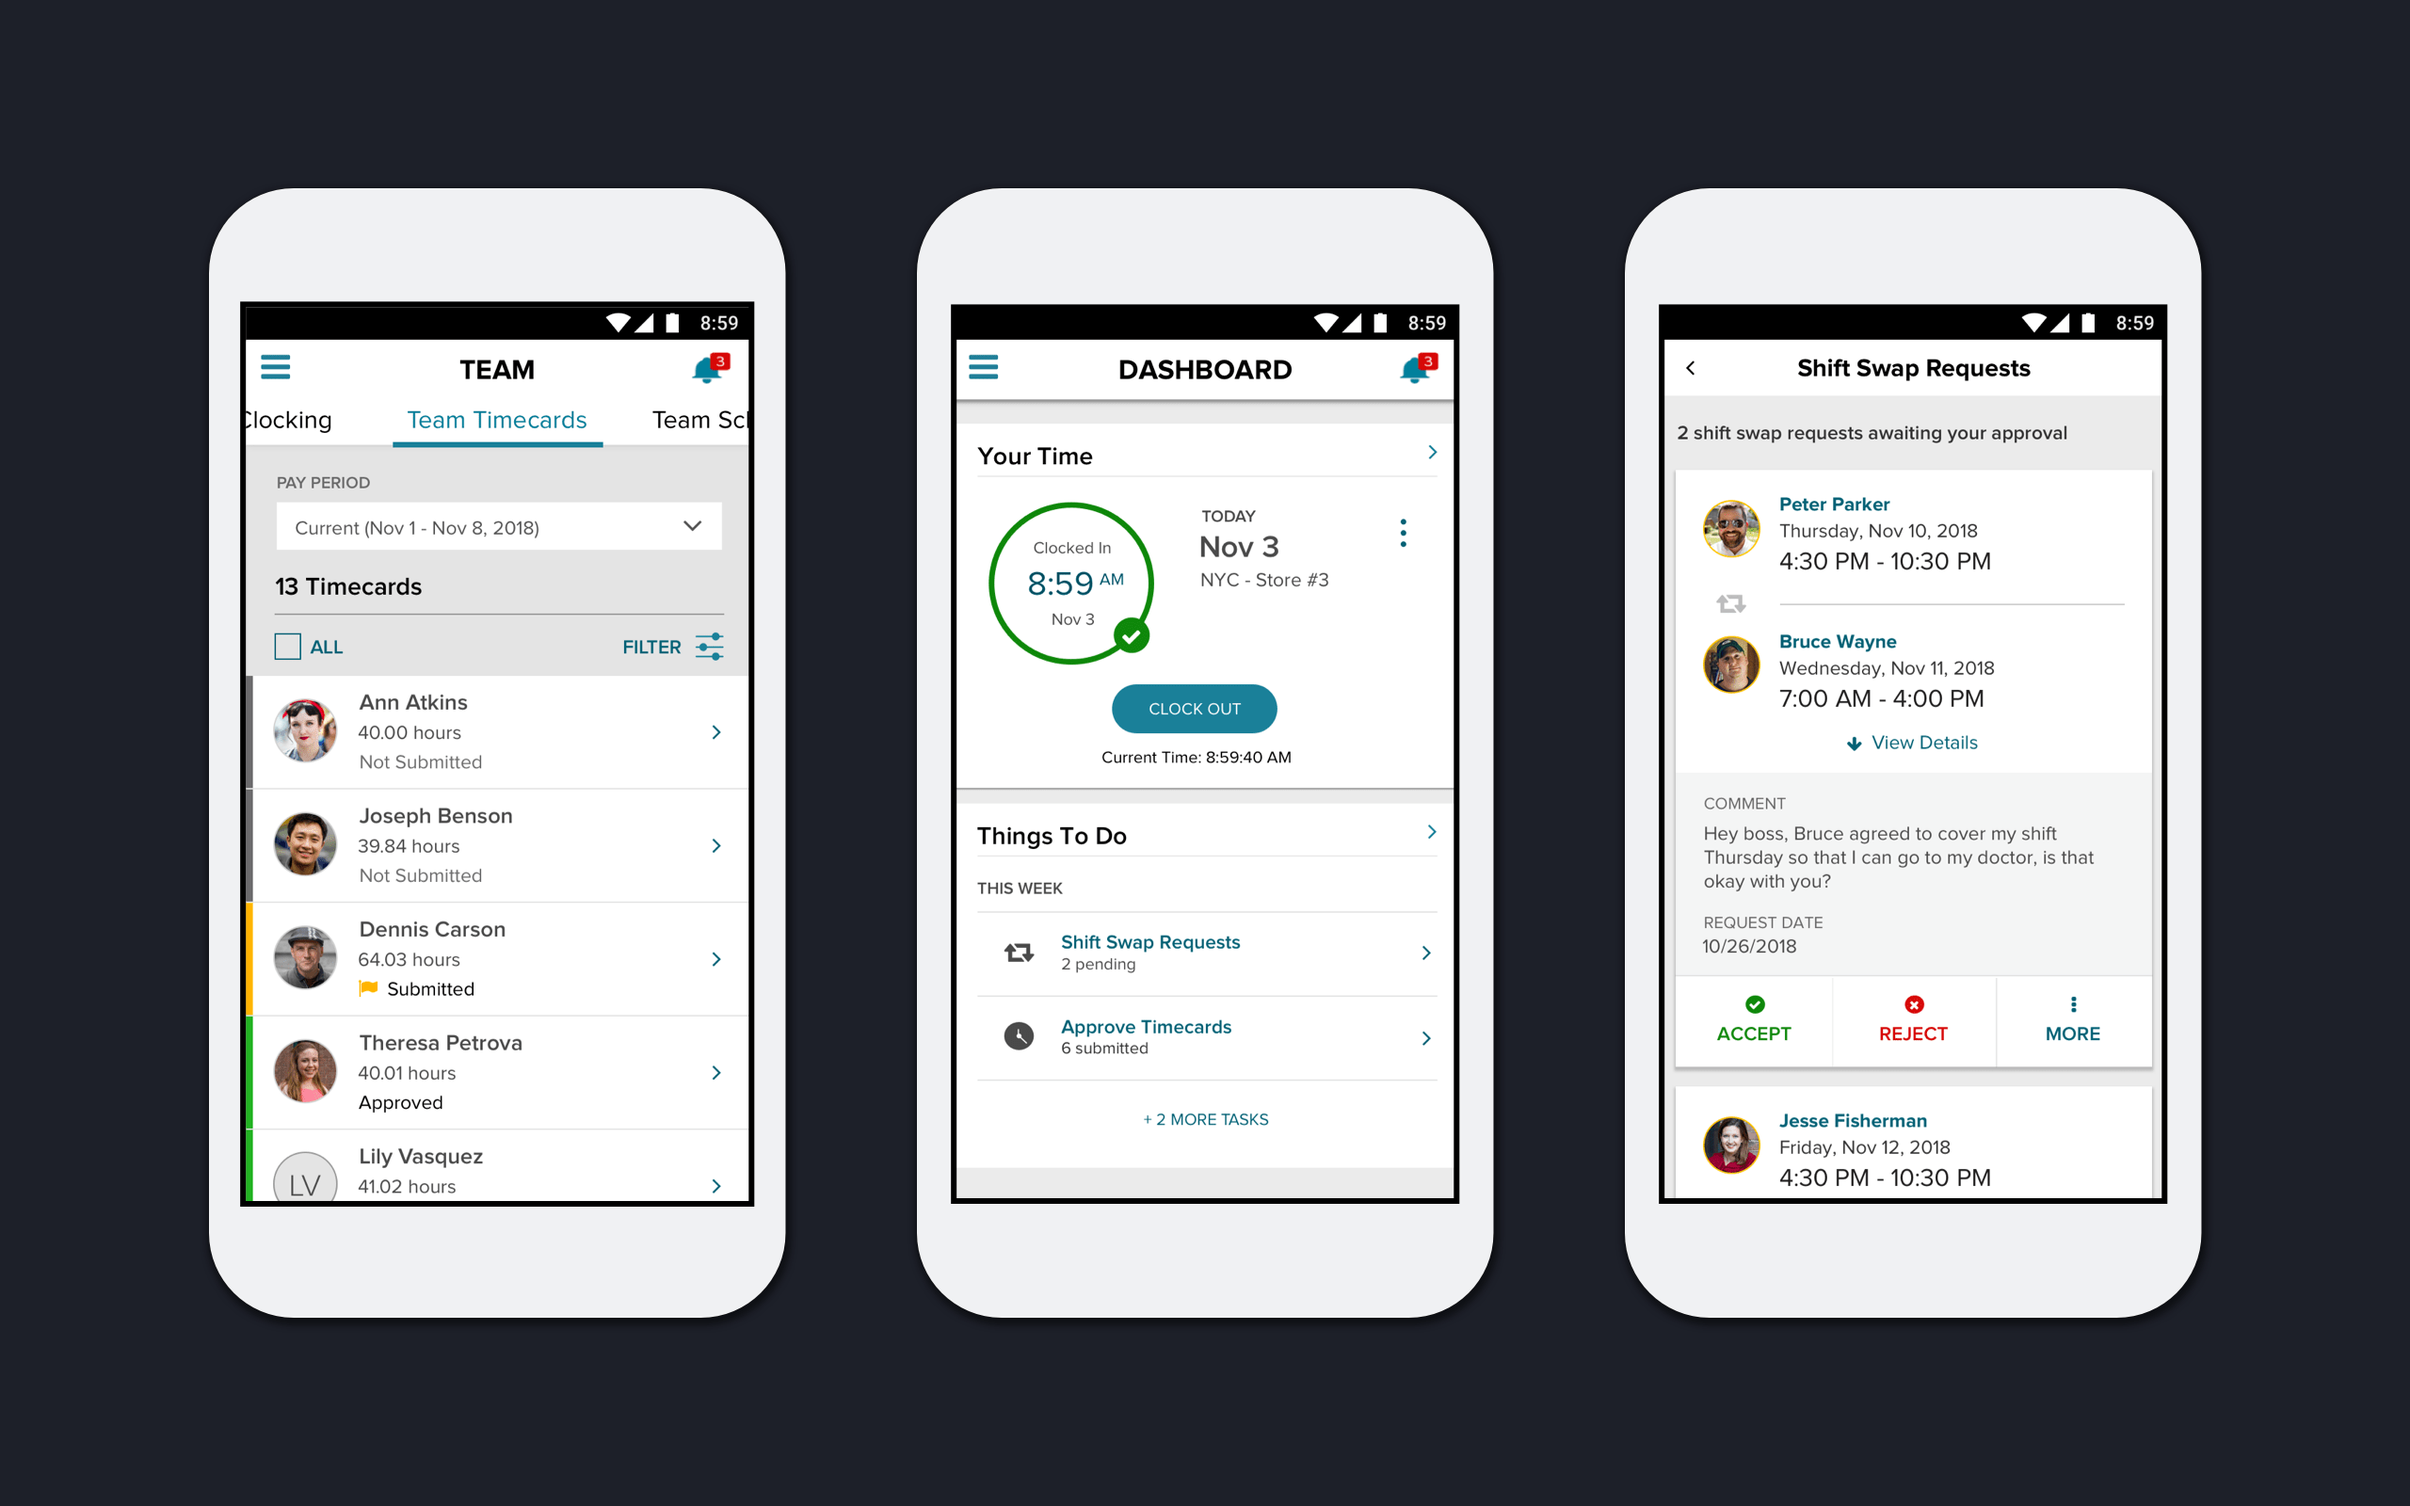
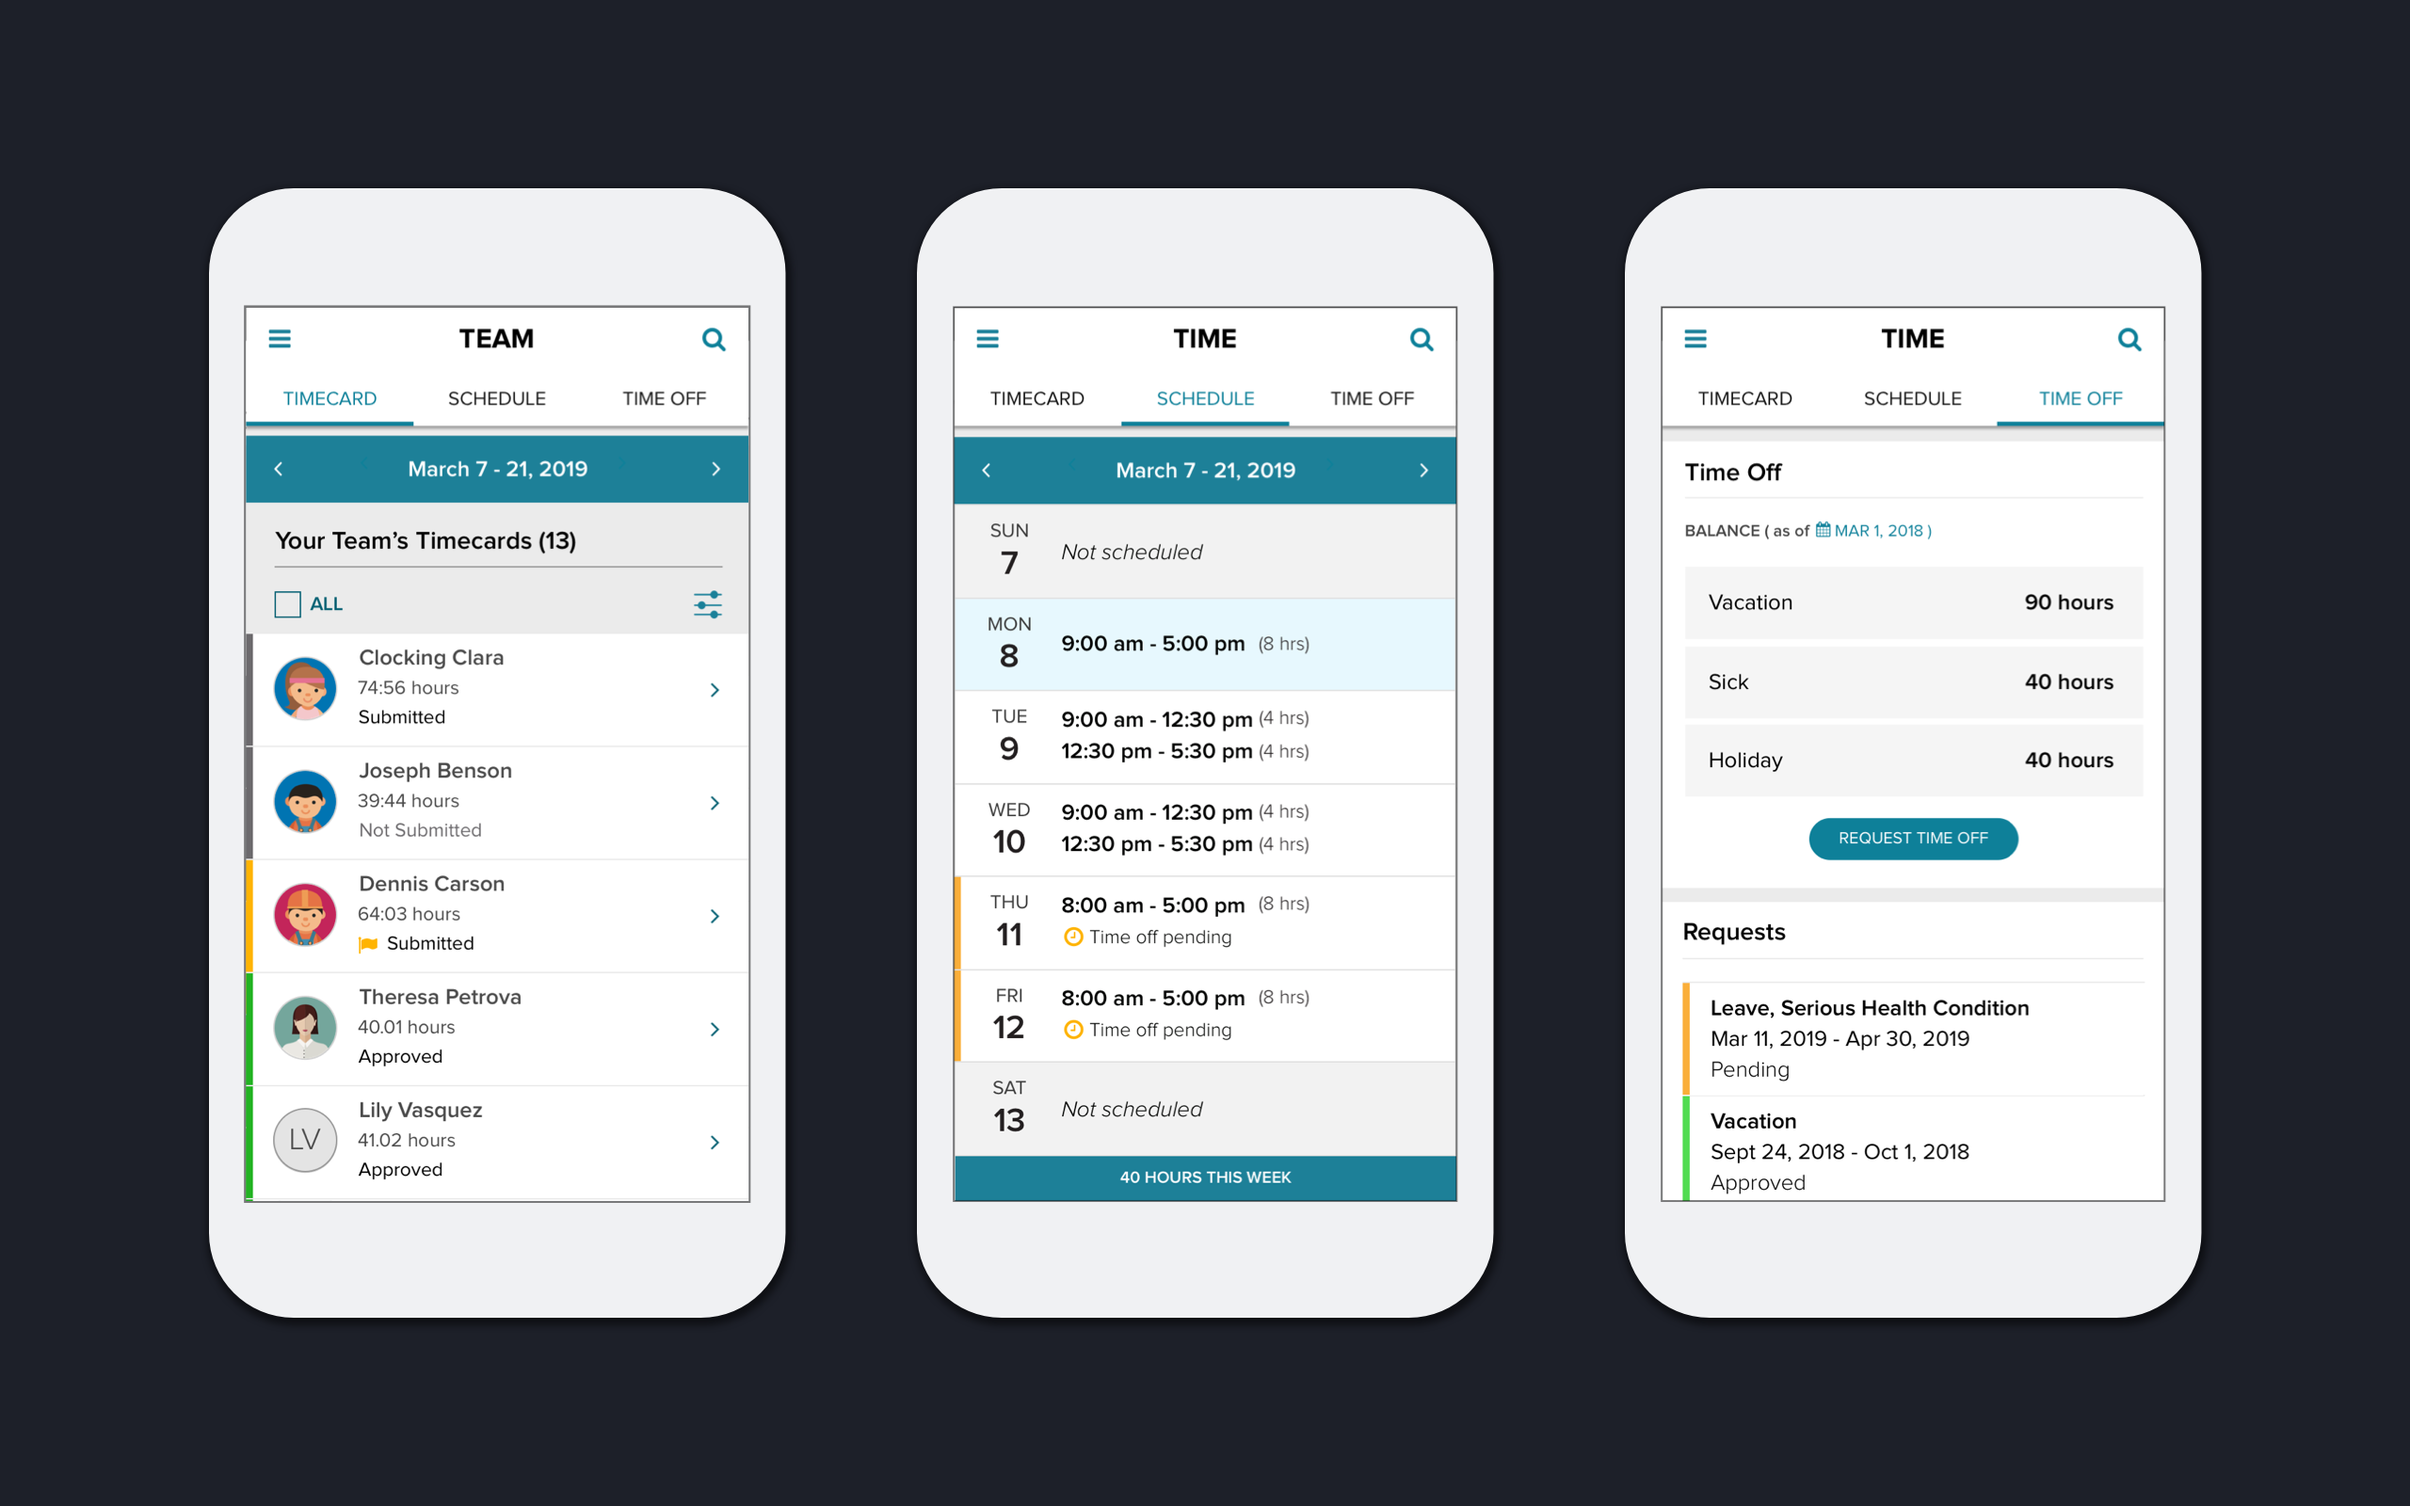
updates

diff --git a/work/modernizing-hr.html b/work/modernizing-hr.html
@@ -46,7 +46,7 @@
             In 2015, ADP had a line of HR products geared towards specialists that was difficult to use for employees. To address this, ADP opened an Innovations Lab to reinvent HR.
           </p>
           <p class="lead">
-            I was part of an ambitious project to create a new Time experience, helping millions of hourly workers get paid properly.
+            I was part of an ambitious project to create an intuitive, unified Time experience, helping millions of hourly workers get paid properly.
           </p>
           <p class="blockquote-footer">
             I have omitted confidential information in this case study. All information in this case study is either public knowledge or a re-imagination of my own and does not necessarily reflect the views of ADP.
@@ -127,8 +127,8 @@
             <div class="p-5 text-center">
               <h5>Various back-end systems & APIs</h5>
               <img class="img-fluid" src="/img/modernizing-hr/backend.png">
-              <h5>One employee and manager self service experience</h5>
-              <img class="w-20" src="/img/modernizing-hr/touser.png">
+              <h5>One user-centered, self service application</h5>
+              <img class="w-20" src="/img/modernizing-hr/to-user.png">
             </div>
             <div>
 
@@ -233,6 +233,7 @@
         <div class="col col-md-8 offset-md-2">
           <h6 class="section-start">THE VISION</h6>
           <h1 class="section-title">Plan, Enter, Review</h1>
+
           <p>To achieve our overarching goal of accurate and efficient time entry, I identified three main phases of the time entry process:</p>
           <ol>
             <li>Plan - When am I supposed to work?</li>
@@ -256,6 +257,20 @@
             <h6 class="section-start">PLAN</h6>
             <h1 class="section-title">Take Leave of Absence</h1>
             <p> To eliminate the seam of having to request Leaves from another system, I worked closely with the PO and lead developer of the Leave team to design and coordinate a unified time off experience. Again we aimed to simplify the experience for a non-specialized user or practitioner, so we worked to eliminate system jargon and optimized flows for user journeys.</p>
+</div>
+</div>
+</div>
+            <div class="container-fluid">
+              <div class="row">
+                <div class="col">
+              <img class="img-fluid" src="/img/modernizing-hr/Flow - Leave.png">
+            </div>
+          </div>
+          </div>
+
+          <div class="container">
+            <div class="row">
+              <div class="col col-md-8 offset-md-2">
             <img class="img-fluid" src="/img/modernizing-hr/leave-use-cases.png">
 
             <table class="table table-striped">
@@ -290,12 +305,12 @@
             </table>
             <figcaption class="figure-caption text-center">User-centered language in collaboration with Aaron Miller & Chris Lammer</figcaption>
 
-            <a class="image-popup-no-margins" href="/img/modernizing-hr/Flow - Precertify Intermittent Leave.jpeg">
+            <!-- <a class="image-popup-no-margins" href="/img/modernizing-hr/Flow - Precertify Intermittent Leave.jpeg">
               <img class="img-fluid" src="/img/modernizing-hr/Flow - Precertify Intermittent Leave.jpeg">
             </a>
             <a class="image-popup-no-margins" href="/img/modernizing-hr/Flow - Report Intermittent Time.jpeg">
               <img class="img-fluid" src="/img/modernizing-hr/Flow - Report Intermittent Time.jpeg">
-            </a>
+            </a> -->
 
             <h6 class="section-start">ENTER</h6>
             <h1 class="section-title">Efficient Time Entry</h1>
@@ -306,6 +321,8 @@
           </div>
         </div>
       </div>
+
+
       <div class="container-fluid">
         <div class="row">
           <div class="col">

diff --git a/about.html b/about.html
@@ -73,7 +73,21 @@
     </div>
   </div>
 
-<div class="container-fluid bg-dark text-light mt-5 mb-5 pt-5 pb-5">
+  <div class="container-fluid bg-dark text-light mt-5 mb-5 pt-5 pb-5">
+    <div class="container">
+    <div class="row">
+      <div class="col-12 offset-lg-2">
+        <h3>Accolades</h3>
+        <ul class="lead">
+        <li class="p-1">4 Design Patents for Design on Vantage HCM and ADP Mobile</li>
+        <li class="p-1">HackPrinceton Best Use of Wolfram API 2016, Lifely</li>
+        </ul>
+      </div>
+      </div>
+    </div>
+  </div>
+
+<!-- <div class="container-fluid bg-dark text-light mt-5 mb-5 pt-5 pb-5">
   <div class="container">
   <div class="row">
     <div class="col-12 col-lg-8 offset-lg-2">
@@ -86,7 +100,7 @@
     </div>
     </div>
   </div>
-</div>
+</div> -->
 
 <div class="container">
   <div class="row justify-content-around">
@@ -102,20 +116,6 @@
     </div>
     </div>
   </div>
-
-<div class="container-fluid bg-dark text-light mt-5 mb-5 pt-5 pb-5">
-  <div class="container">
-  <div class="row">
-    <div class="col-12 offset-lg-2">
-      <h3>Accolades</h3>
-      <ul class="lead">
-      <li class="p-1">4 Design Patents for Design on Vantage HCM and ADP Mobile</li>
-      <li class="p-1">HackPrinceton Best Use of Wolfram API 2016, Lifely</li>
-      </ul>
-    </div>
-    </div>
-  </div>
-</div>
 
 <footer id="footer">
 </footer>
